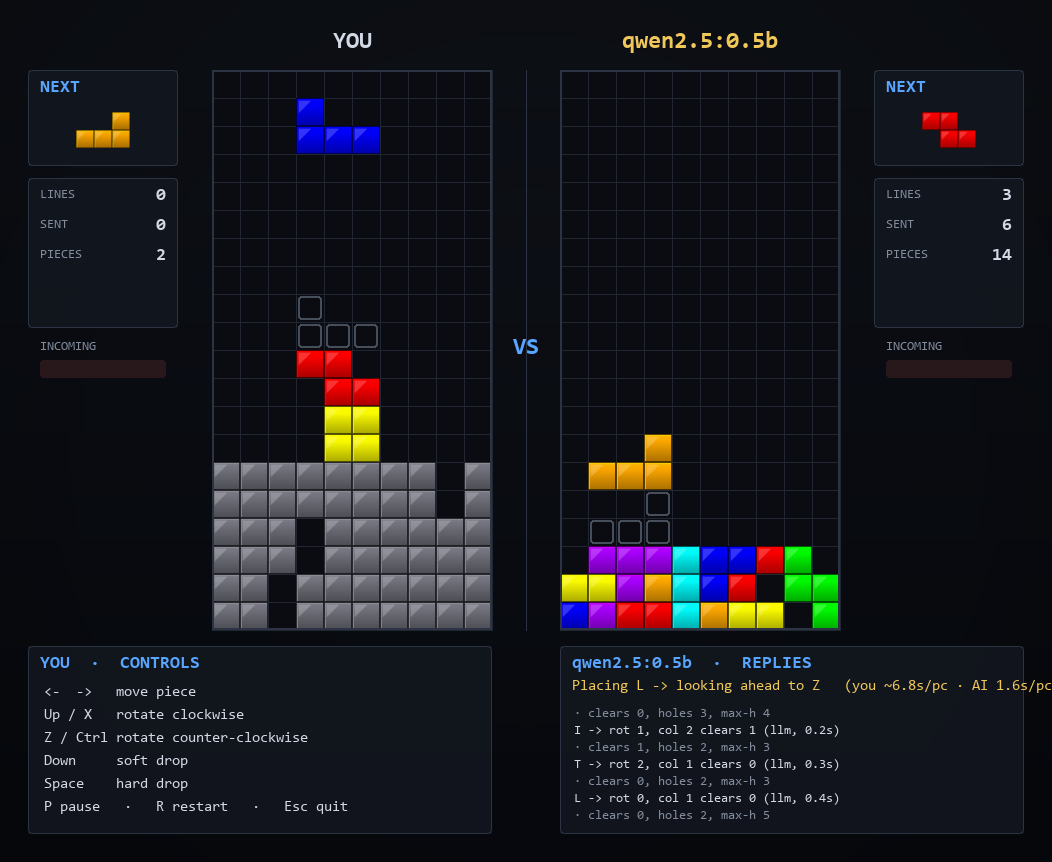
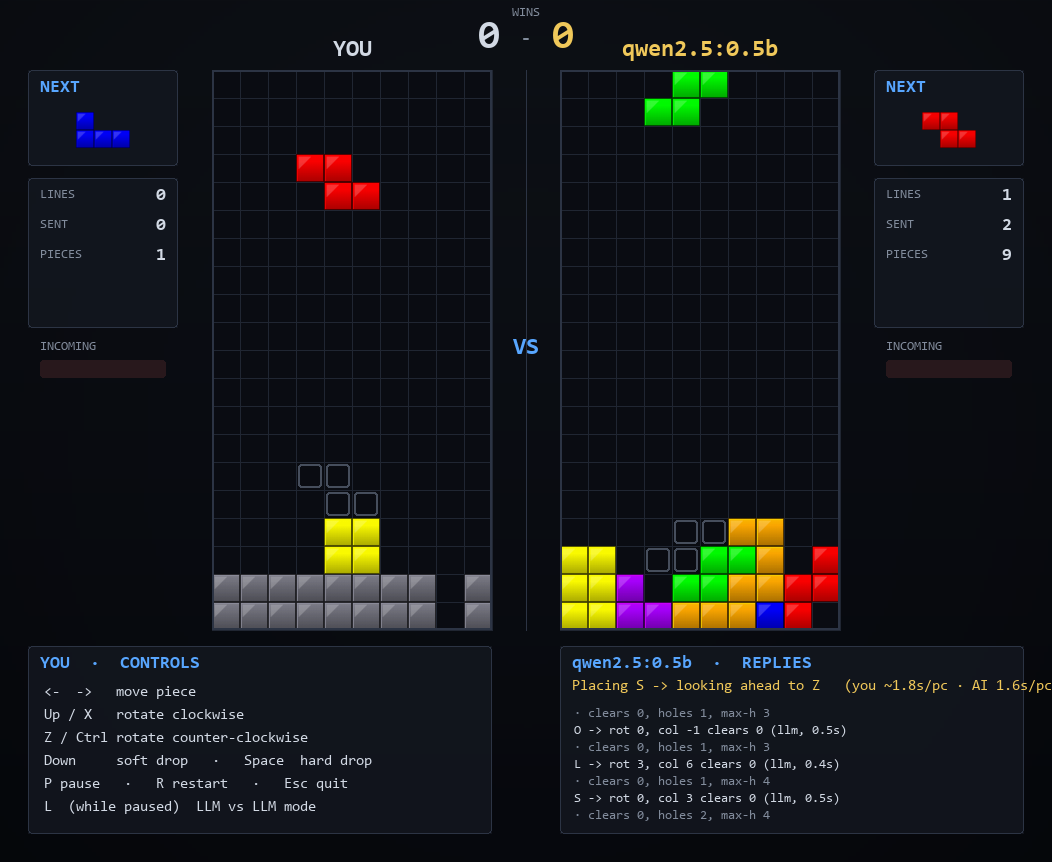
Add session scoreboard and a prominent restart prompt
A wins tally is shown at the top centre (colour-matched to each side) and
persists across restarts; it resets when the matchup changes via the mode
toggle. The game-over screen now shows a clear bordered restart prompt
(press R). Refreshed the README screenshot to show the scoreboard.

diff --git a/tetris/renderer.py b/tetris/renderer.py
@@ -202,16 +202,24 @@ class Renderer:
 
     # -- top level ----------------------------------------------------------
     def render(self, player, llm, *, llm_status, llm_log, winner, state, model_name,
-               player_label="YOU", left_status=None, left_log=None, mode_label=None):
+               player_label="YOU", left_status=None, left_log=None, mode_label=None,
+               score_left=0, score_right=0):
         self.screen.blit(self.assets.background, (0, 0))
         left_is_ai = left_log is not None
+        left_color = C.THINK_COLOR if left_is_ai else C.TEXT
 
         # titles
-        self._text(player_label, self.f_title,
-                   C.THINK_COLOR if left_is_ai else C.TEXT,
-                   C.PLAYER_BOARD_X + C.BOARD_PX_W // 2, 30, center=True)
+        self._text(player_label, self.f_title, left_color,
+                   C.PLAYER_BOARD_X + C.BOARD_PX_W // 2, 38, center=True)
         self._text(model_name, self.f_title, C.THINK_COLOR,
-                   C.LLM_BOARD_X + C.BOARD_PX_W // 2, 30, center=True)
+                   C.LLM_BOARD_X + C.BOARD_PX_W // 2, 38, center=True)
+
+        # scoreboard (session wins), centred at the top
+        cx = C.CENTER_X
+        self._text("WINS", self.f_s, C.TEXT_DIM, cx, 6, center=True)
+        self._text(str(score_left), self.f_big, left_color, cx - 26, 18, right=True)
+        self._text("-", self.f_h, C.TEXT_DIM, cx, 30, center=True)
+        self._text(str(score_right), self.f_big, C.THINK_COLOR, cx + 26, 18)
 
         self.draw_board(C.PLAYER_BOARD_X, C.BOARD_TOP, player, active=not player.dead)
         self.draw_board(C.LLM_BOARD_X, C.BOARD_TOP, llm, active=not llm.dead)
@@ -243,8 +251,15 @@ class Renderer:
             elif winner == "llm":
                 self.banner(C.PLAYER_BOARD_X, "LOSE", C.LOSE_COLOR)
                 self.banner(C.LLM_BOARD_X, "WIN!", C.WIN_COLOR)
-            self._text("Press  R  to play again", self.f_h, C.TEXT,
-                       C.CENTER_X, C.BOARD_TOP + C.BOARD_PX_H + 4, center=True)
+            # prominent centred restart prompt
+            prompt = "press  R  to restart"
+            pw = self.f_title.size(prompt)[0] + 48
+            py = C.BOARD_TOP + C.BOARD_PX_H // 2 + 46
+            pill = pygame.Surface((pw, 44), pygame.SRCALPHA)
+            pill.fill((0, 0, 0, 205))
+            pygame.draw.rect(pill, C.ACCENT, pill.get_rect(), 1, border_radius=6)
+            self.screen.blit(pill, (C.CENTER_X - pw // 2, py))
+            self._text(prompt, self.f_title, C.ACCENT, C.CENTER_X, py + 9, center=True)
         elif state == "paused":
             self.banner(C.PLAYER_BOARD_X, "PAUSED", C.ACCENT)
             self.banner(C.LLM_BOARD_X, "PAUSED", C.ACCENT)

diff --git a/tetris/main.py b/tetris/main.py
@@ -298,6 +298,9 @@ class BattleTetris:
         self.model_name = base_name
         self.vs_mode = "human"          # "human" | "ai"
         self._left_warmed = False
+        # session scoreboard (survives restarts; reset on a mode switch)
+        self.score_left = 0
+        self.score_right = 0
 
         pygame.init()
         pygame.display.set_caption("Tetris Duel  ·  You vs LLM")
@@ -360,6 +363,7 @@ class BattleTetris:
         if key == pygame.K_l and self.state == "paused":
             # toggle Human-vs-LLM / LLM-vs-LLM at the paused screen
             self.vs_mode = "ai" if self.vs_mode == "human" else "human"
+            self.score_left = self.score_right = 0   # new matchup, fresh scoreboard
             self.reset()
             if self.vs_mode == "ai" and not self._left_warmed:
                 self.client_left.warmup()
@@ -437,6 +441,10 @@ class BattleTetris:
         if self.player.dead or self.llm.dead:
             self.state = "over"
             self.winner = "llm" if self.player.dead else "player"
+            if self.winner == "player":
+                self.score_left += 1
+            else:
+                self.score_right += 1
 
     def render(self):
         if self.vs_mode == "ai":
@@ -462,6 +470,8 @@ class BattleTetris:
             left_status=left_status,
             left_log=left_log,
             mode_label=mode_label,
+            score_left=self.score_left,
+            score_right=self.score_right,
         )
         pygame.display.flip()
 